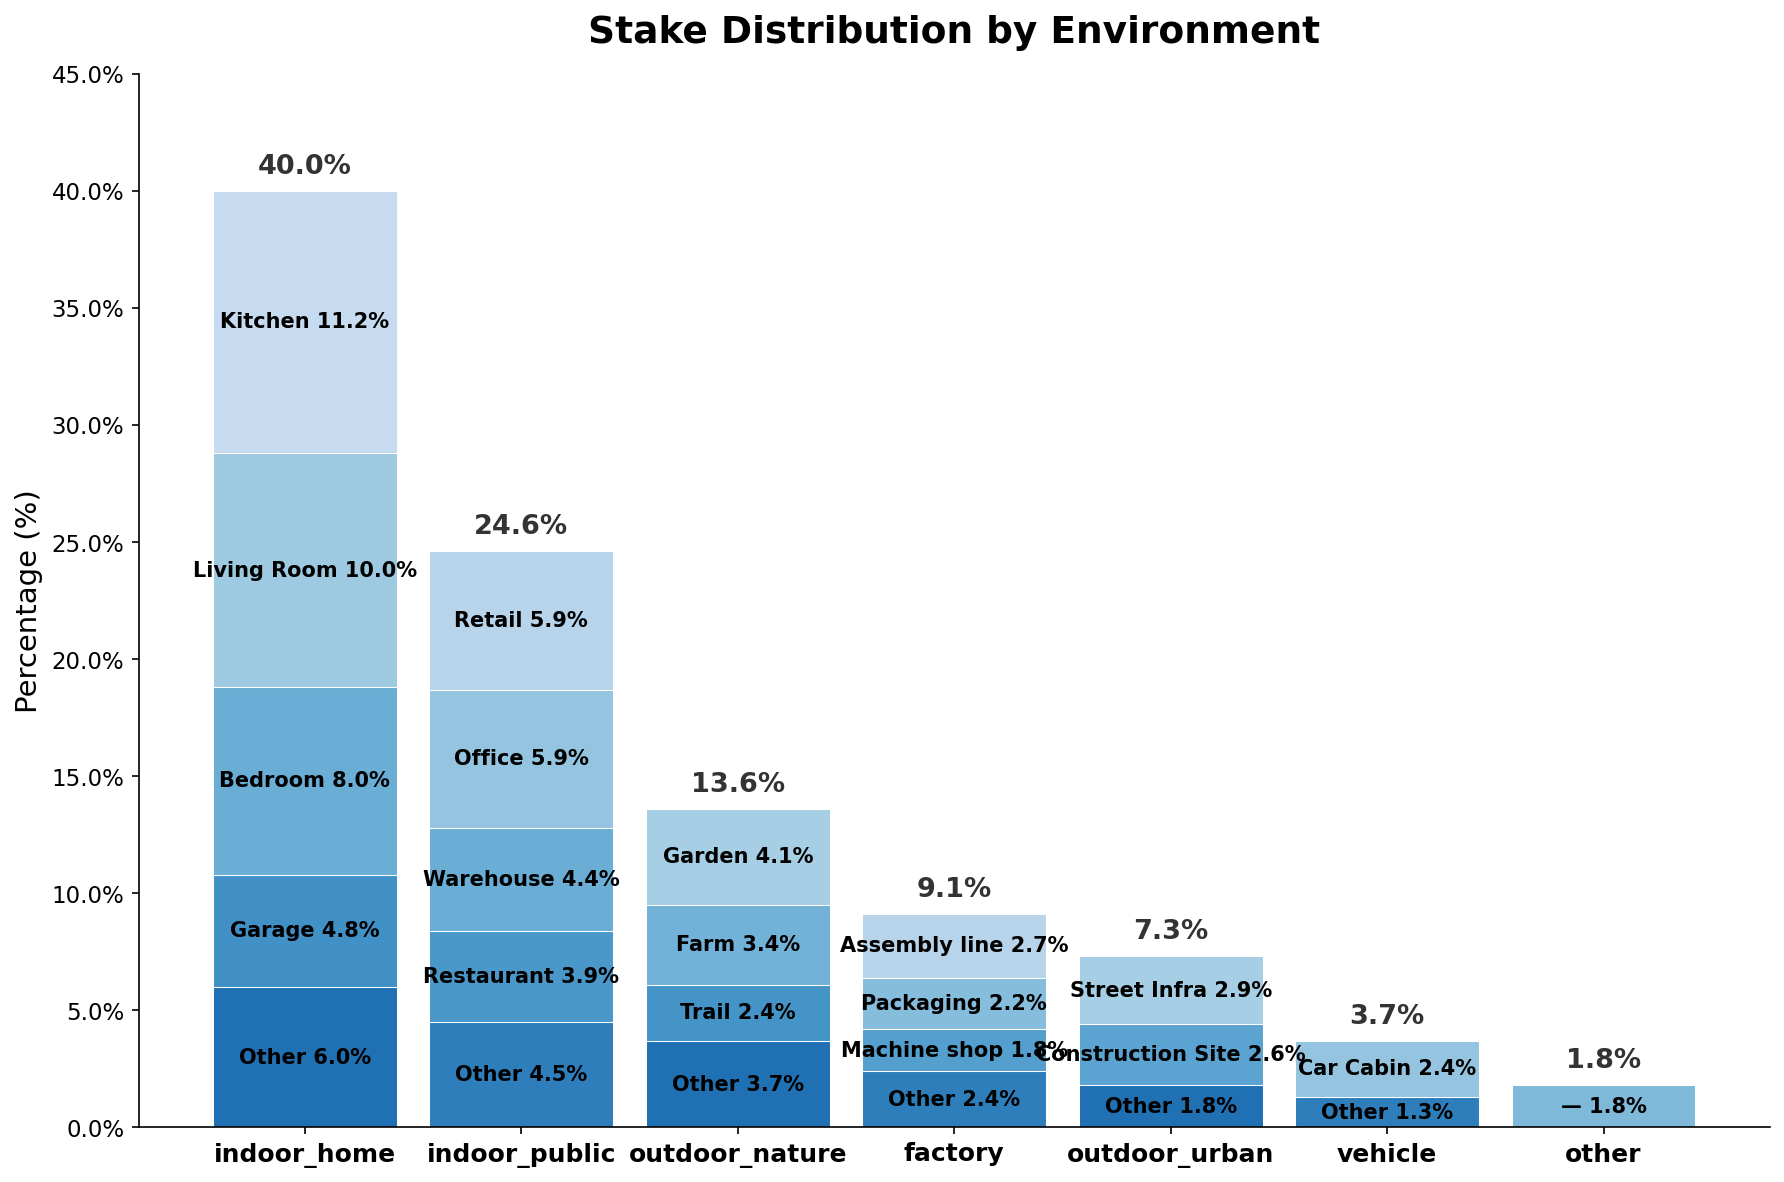
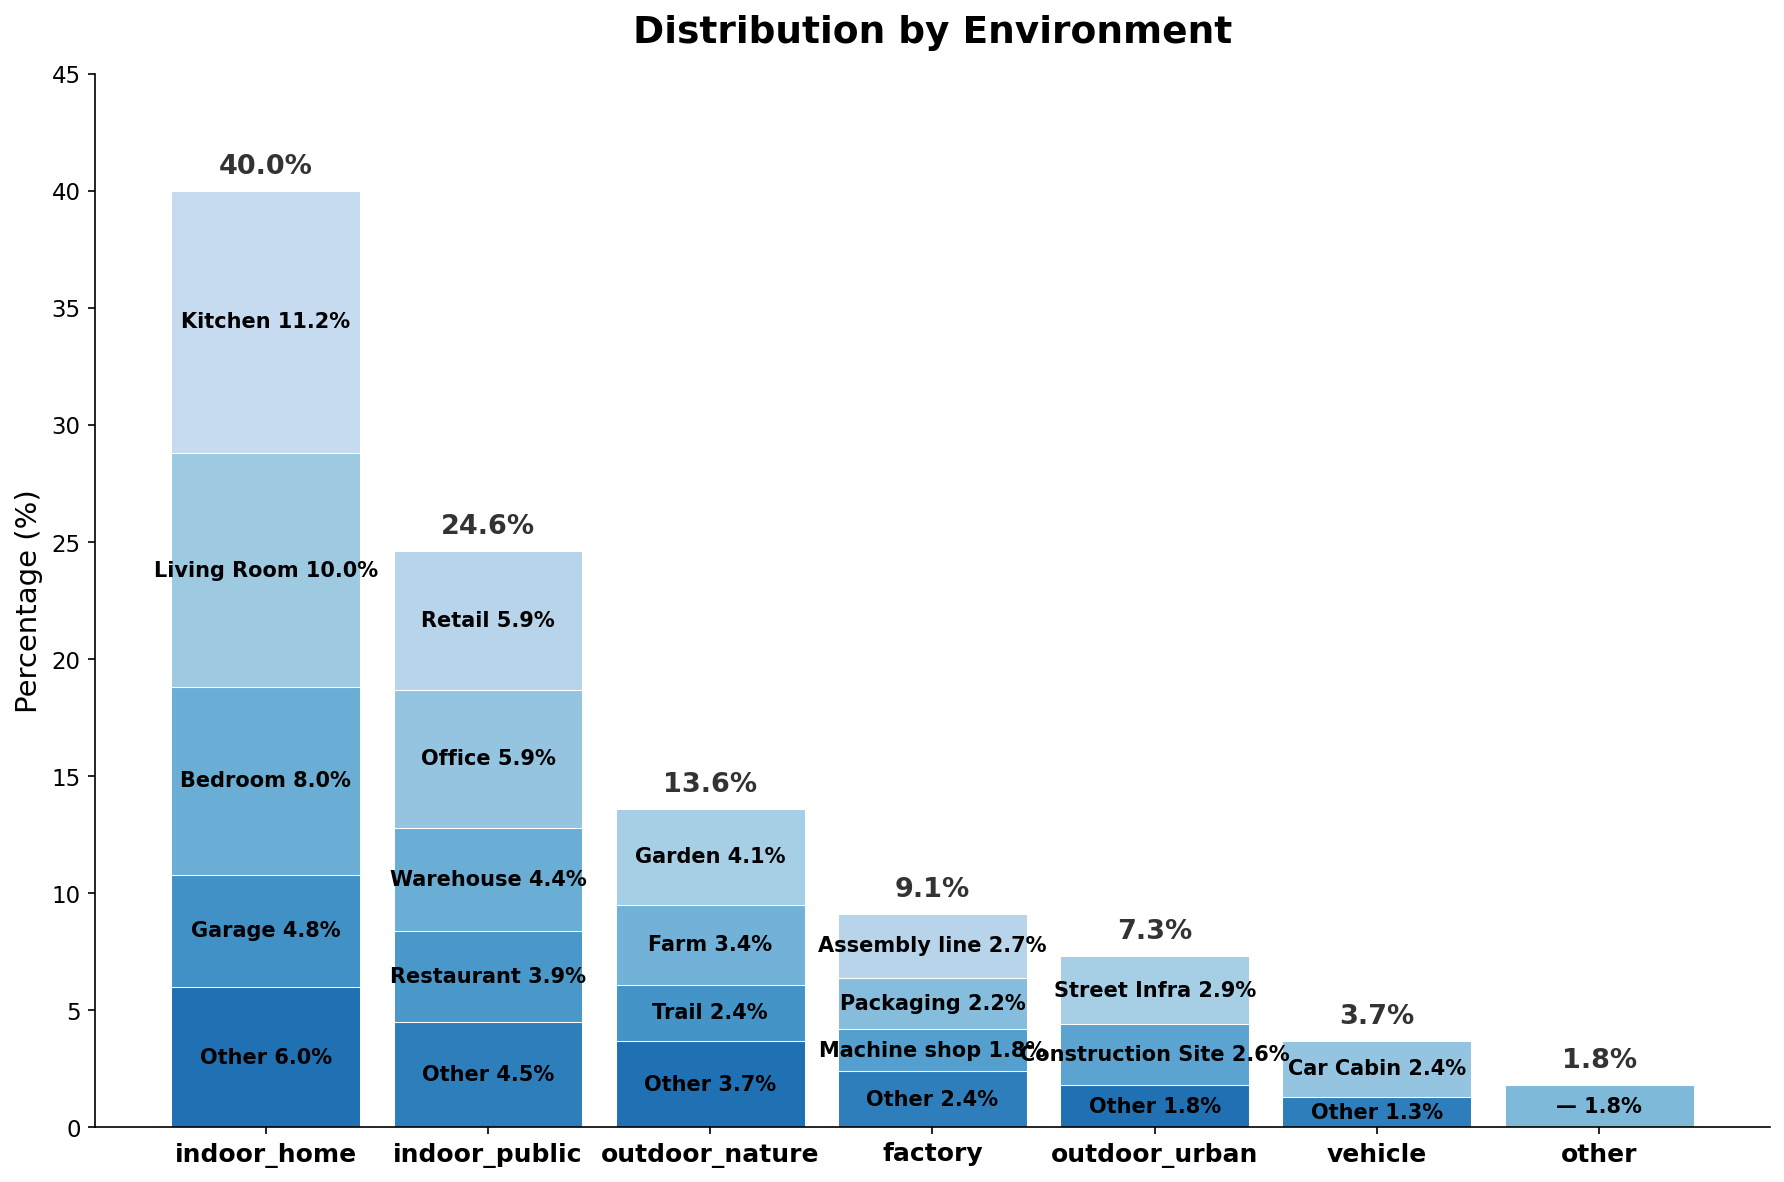
Remove y-axis percent signs and rename title
https://claude.ai/code/session_018xFGws4xpUTXJntMBVQsZP

diff --git a/stake_histogram.py b/stake_histogram.py
@@ -115,9 +115,9 @@ for i, env in enumerate(env_names):
 ax.set_xticks(x_positions)
 ax.set_xticklabels(env_names, fontsize=12, fontweight="bold")
 ax.set_ylabel("Percentage (%)", fontsize=14)
-ax.set_title("Stake Distribution by Environment", fontsize=18, fontweight="bold", pad=15)
+ax.set_title("Distribution by Environment", fontsize=18, fontweight="bold", pad=15)
 ax.tick_params(axis="y", labelsize=11)
-ax.yaxis.set_major_formatter(mticker.PercentFormatter())
+ax.yaxis.set_major_formatter(mticker.FuncFormatter(lambda x, _: f"{x:.0f}"))
 ax.set_ylim(0, 45)
 ax.spines["top"].set_visible(False)
 ax.spines["right"].set_visible(False)
